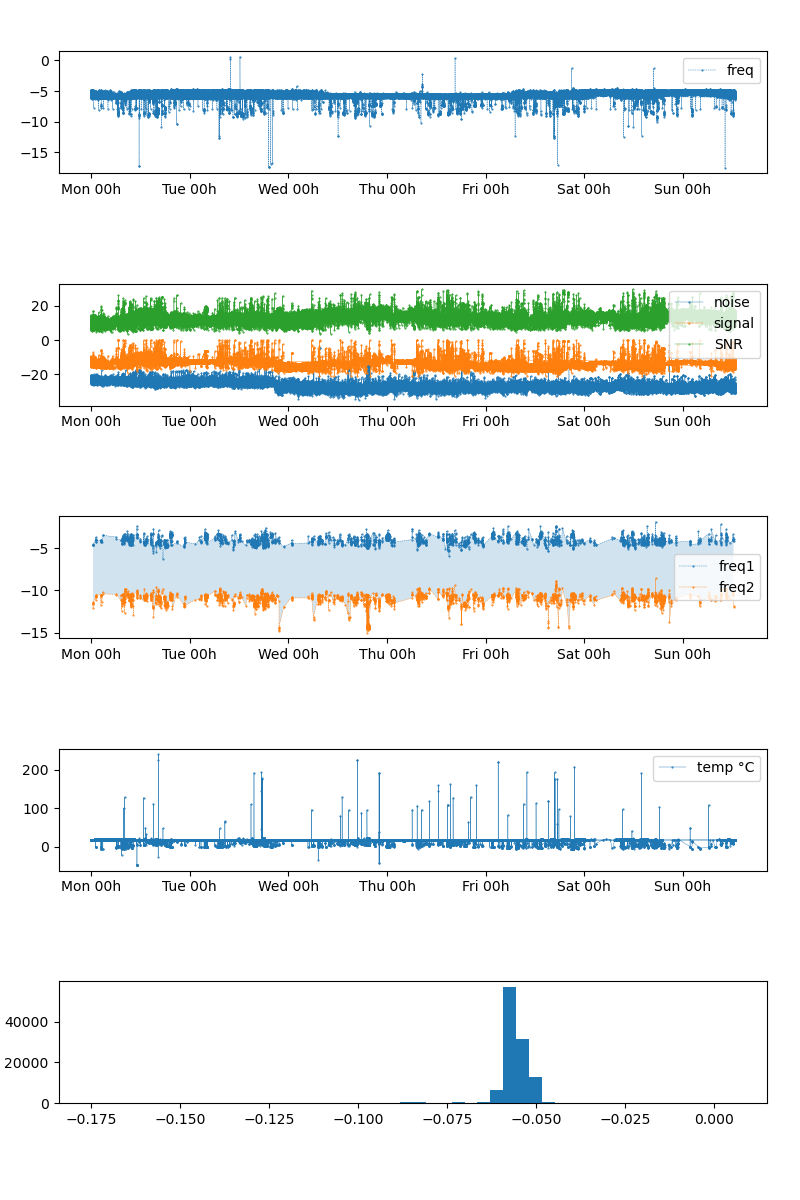
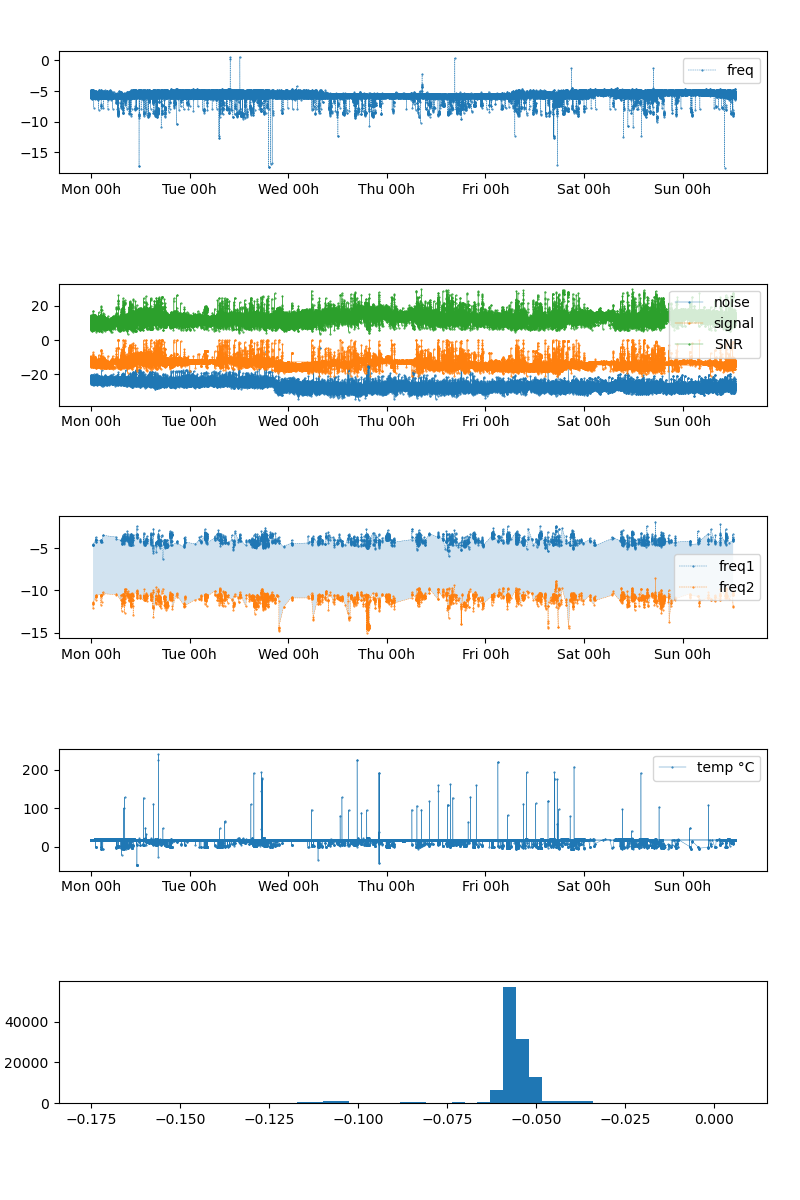
update

diff --git a/graphit.py b/graphit.py
@@ -85,7 +85,7 @@ ax[n].xaxis.set_major_formatter(DateFormatter('%a %Hh'))
 n+=1
 
 filt_truck = pdf.protocol==201
-ax[n].hist(pdf.freq-434,50)
+ax[n].hist(np.concatenate((pdf.freq-434,pdf.freq1-434,pdf.freq2-434)),50)
 #ax[n].legend()
 #ax[n].set_xlim(xlim)
 #ax[n].xaxis.set_major_formatter(DateFormatter('%a %Hh'))
